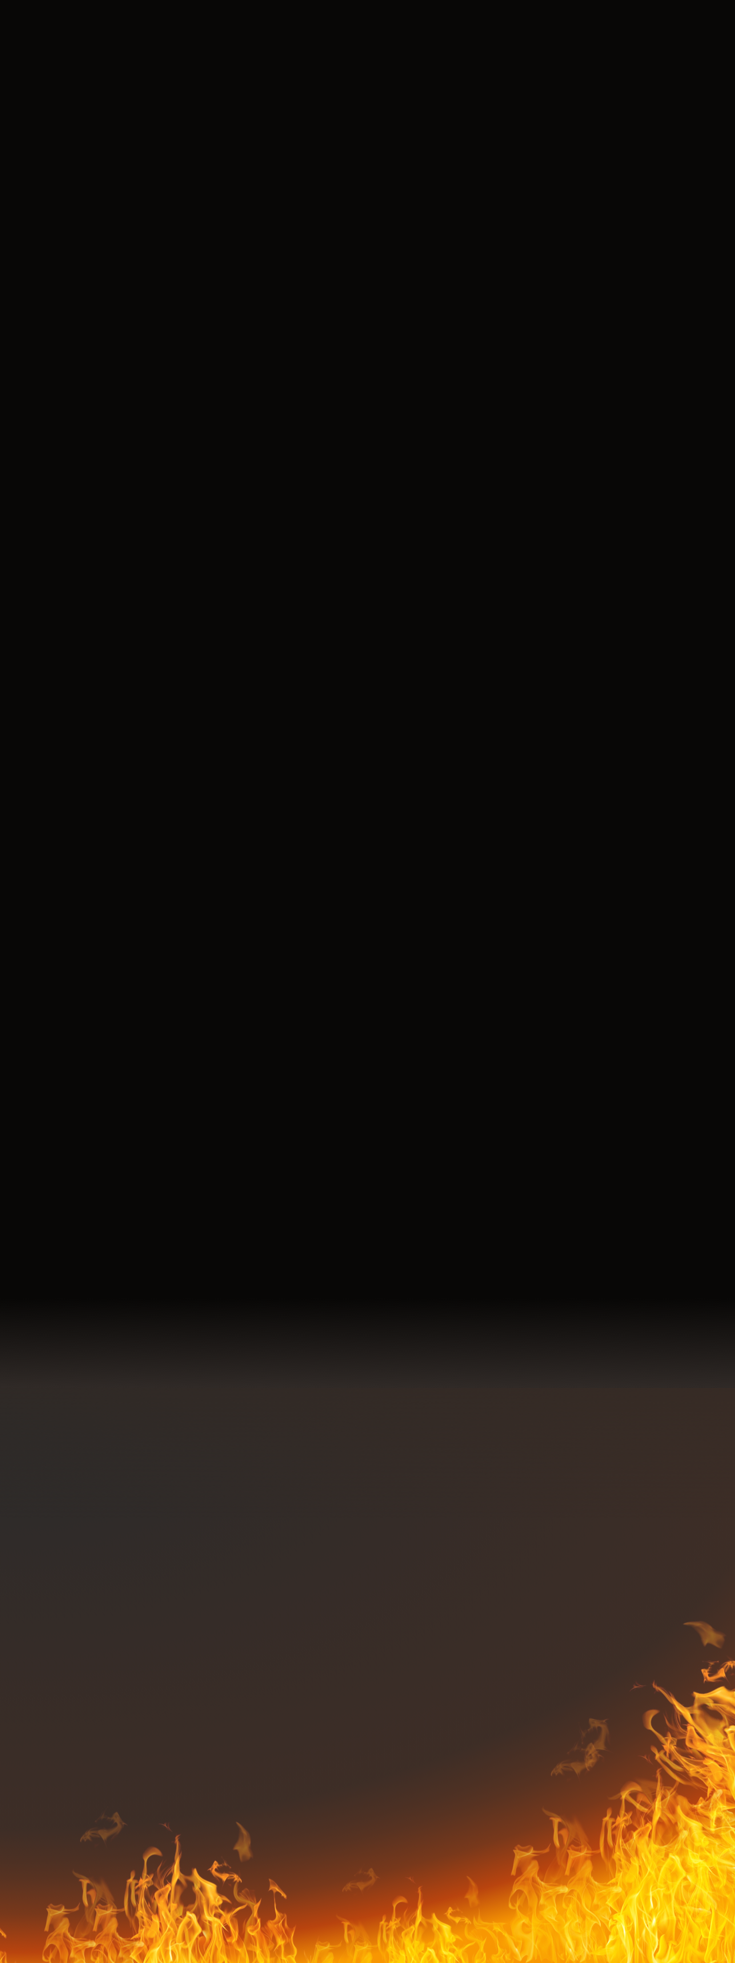
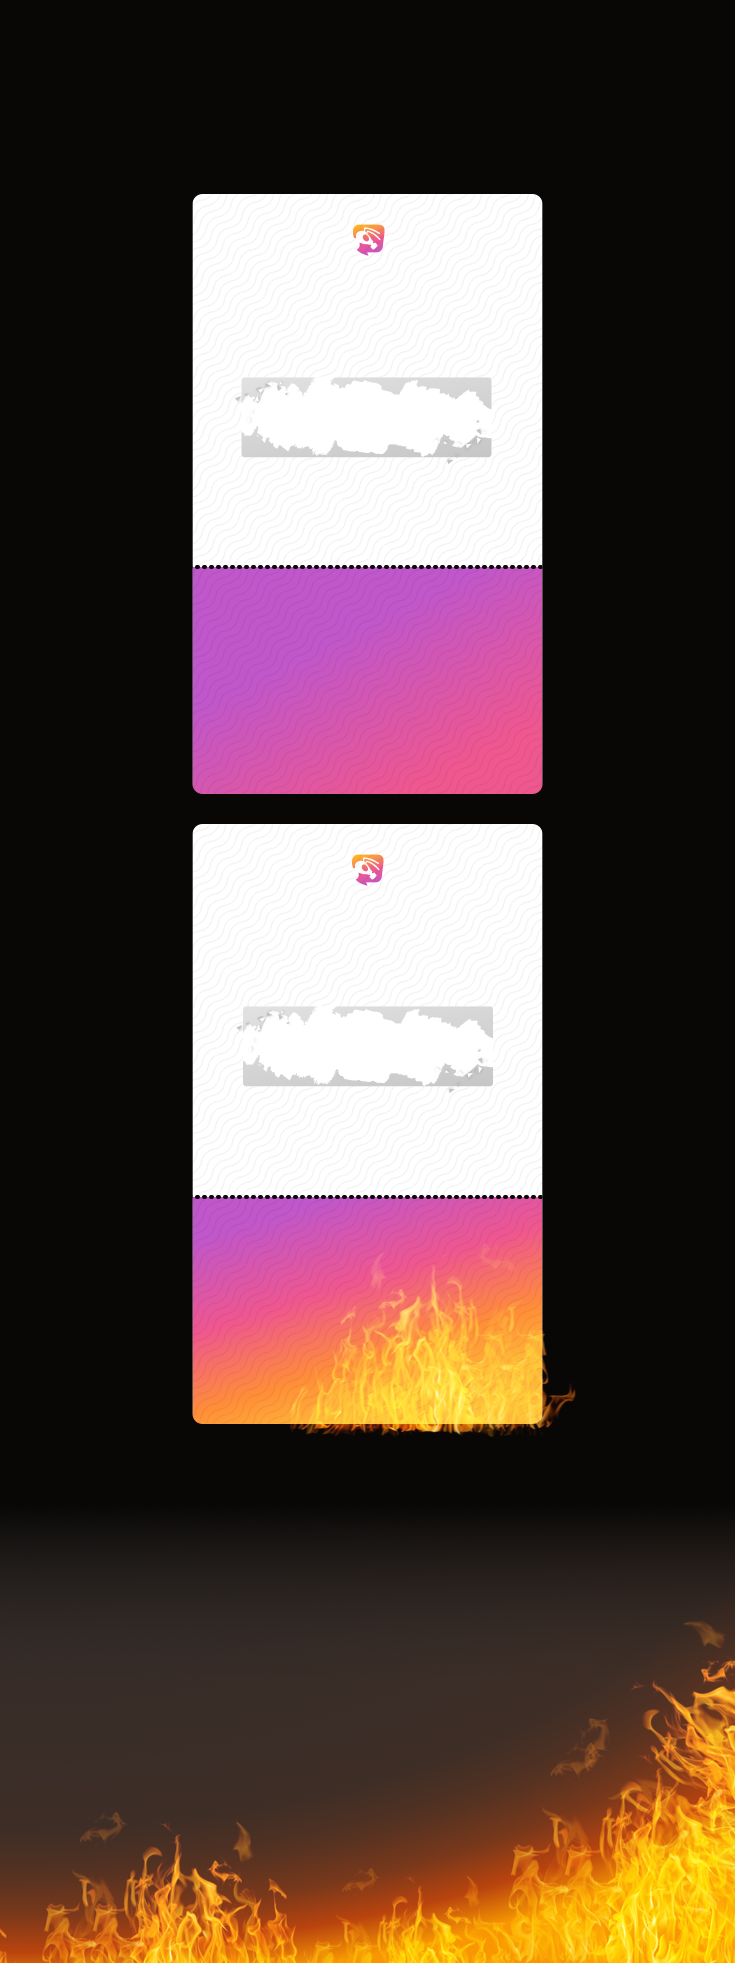
Add files via upload

diff --git a/Block_8-9/css/main.css b/Block_8-9/css/main.css
@@ -108,9 +108,6 @@ h5{
 	width: 870px;
 	height: 762px;
 }
-.block_9 .content .crop{
-	display: none;
-}
 .block_9 .content .stroke{
 	display: flex;
 }
@@ -168,7 +165,7 @@ h5{
 .block_9 input[type=text]{
 	margin-top: 64px;
 	font-family: 'Exo 2', sans-serif;
-	font-weight: 800;
+	font-weight: 700;
 	font-size: 18px;
 	line-height: 22px !important;
 	text-align: center;
@@ -185,7 +182,7 @@ input:focus:-ms-input-placeholder { color:transparent; }
 
 ::-webkit-input-placeholder {
     font-family: 'Exo 2', sans-serif;
-	font-weight: 800;
+	font-weight: 700;
 	font-size: 18px;
 	line-height: 22px !important;
 	text-align: center;
@@ -193,7 +190,7 @@ input:focus:-ms-input-placeholder { color:transparent; }
 }
 ::-moz-placeholder { /* Firefox 19+ */
     font-family: 'Exo 2', sans-serif;
-	font-weight: 800;
+	font-weight: 700;
 	font-size: 18px;
 	line-height: 22px !important;
 	text-align: center;
@@ -201,7 +198,7 @@ input:focus:-ms-input-placeholder { color:transparent; }
 }
 :-ms-input-placeholder {
     font-family: 'Exo 2', sans-serif;
-	font-weight: 800;
+	font-weight: 700;
 	font-size: 18px;
 	line-height: 22px !important;
 	text-align: center;
@@ -209,7 +206,7 @@ input:focus:-ms-input-placeholder { color:transparent; }
 }
 :-moz-placeholder { /* Firefox 18- */
     font-family: 'Exo 2', sans-serif;
-	font-weight: 800;
+	font-weight: 700;
 	font-size: 18px;
 	line-height: 22px !important;
 	text-align: center;
@@ -222,12 +219,12 @@ input:focus:-ms-input-placeholder { color:transparent; }
 	padding-bottom: 4px;
     background: #2c2c2c;
     font-family: 'Exo 2', sans-serif !important;
-	font-weight: 800 !important;
+	font-weight: 700 !important;
 	font-size: 18px !important;
 	line-height: 22px !important;
 	color: #fff !important;
 }
-.block_9 .button {
+.block_9 .button{
 	margin-top: 20px;
 	align-items: center;
 	width: 280px;
@@ -311,47 +308,41 @@ h4{
 	-webkit-background-size: cover;
 	background-size: cover;
 }
+.block_9 .content h2.head{
+	position: absolute;
+    margin: 80px 25px;
+    margin-left: -167px;
+    left: 50%;
+    line-height: 32px;
+    color: #fff;
+}
 .block_9 .content img.mount{
 	display: none;
 }
-.block_9 .content .crop{
-	display: block;
-	max-width: 350px;
-	margin:0 auto;
-}
-.block_9 .content img.mount2{
-	display: block;
-	width: 350px;
-	height: 1230px;
-	margin:0 auto;
-}
 .block_9 .content .stroke{
-	display: flex;
-	flex-direction: column;
-	margin-top: -526px;
-}
-.block_9 .content h2.head{
-	margin-top: 80px;
-	margin-bottom: 50px;
-	line-height: 32px;
-	color: #fff;
+	display: block;
+    flex-direction: column;
+    margin-top: 145px;
 }
 .block_9 .pricelist{
 	margin:0 auto !important;
 }
+.block_9 .pricelist .pricehead{
+	margin-top: 138px;
+}
 .block_9 .ver2{
-	padding-top: 630px;
+	padding-top: 225px;
 }
 .block_9 .pricelist h2{
 	font-size: 22px;
 	line-height: 32px;
 }
 .block_9 .pricelist .price{
-	margin-top: 55px;
+	margin-top: 53px;
 	margin-right: 10px;
 }
 .block_9 .pricelist .discount{
-	margin-top: 37px;
+	margin-top: 40px;
 	margin-right: 15px;
 }
 .block_9 .pricelist .time{
@@ -363,7 +354,7 @@ h4{
 	color: #232323;
 }
 .block_9 input[type=text]{
-	margin-top: 112px;
+	margin-top: 114px;
 }
 .block_9 .politic{
 	display: block;
@@ -372,14 +363,17 @@ h4{
 	font-size: 14px;
 	color: #9e9a98;
 	line-height: 25px;
+	display: none;
 }
 .block_9 h2.ask{
-	margin-top: 80px;
+	margin-top: 322px;
+	font-size: 22px;
 	margin-bottom: 25px;
 	line-height: 32px;
 	color: #fff;
 }
 .block_9 h4.ask{
+	font-size: 17px;
 	line-height: 25px;
 	width: 100%;
 	color: #fff;

diff --git a/Block_8-9/index.html b/Block_8-9/index.html
@@ -23,9 +23,6 @@
 			<div class="margin">
 				<h2 class=head>Стоимость этих решений у нас:</h2>
 				<img class=mount src="img/block_9/price.png" srcset="img/block_9/price@2x.png 2x, img/block_9/price@3x.png 3x" alt="price">
-				<div class="crop">
-				<img class=mount2 src="img/block_9/mobile/mount.png" srcset="img/block_9/mobile/mount@2x.png 2x, img/block_9/mobile/mount@3x.png 3x" alt="price">
-				</div>
 				<div class="stroke">
 					<div class="pricelist ver1">
 						<h2 class=pricehead>Мобильные приложения <br>+ админ-панель</h2>
